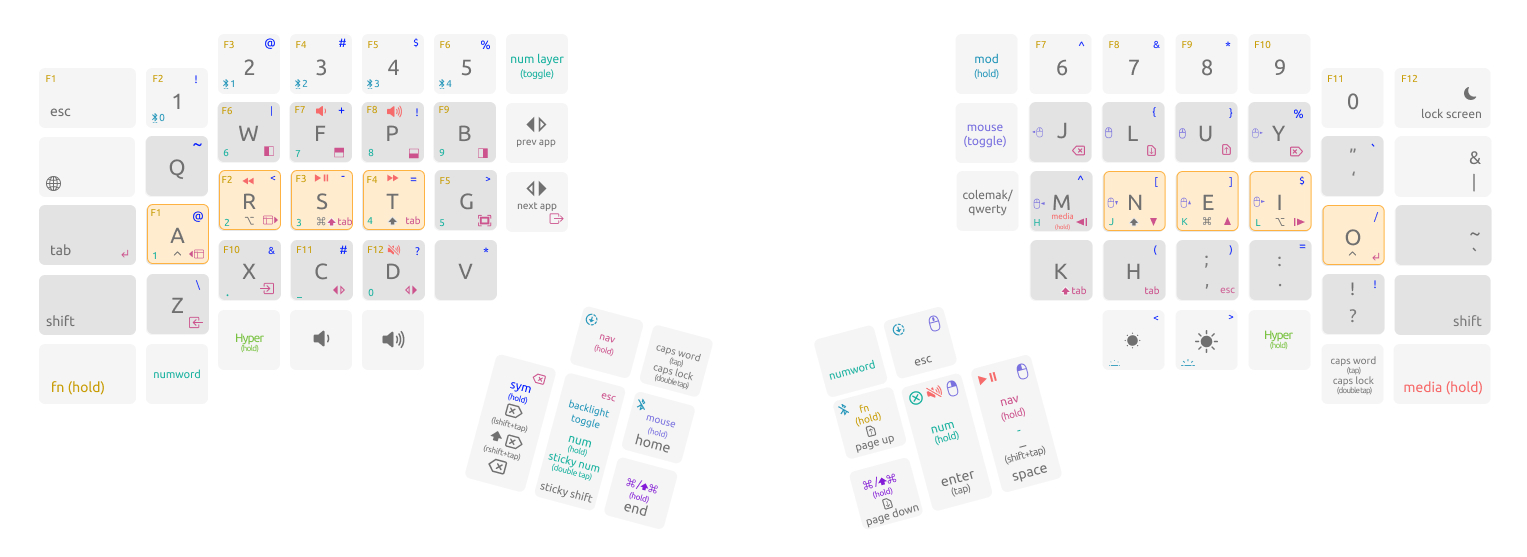
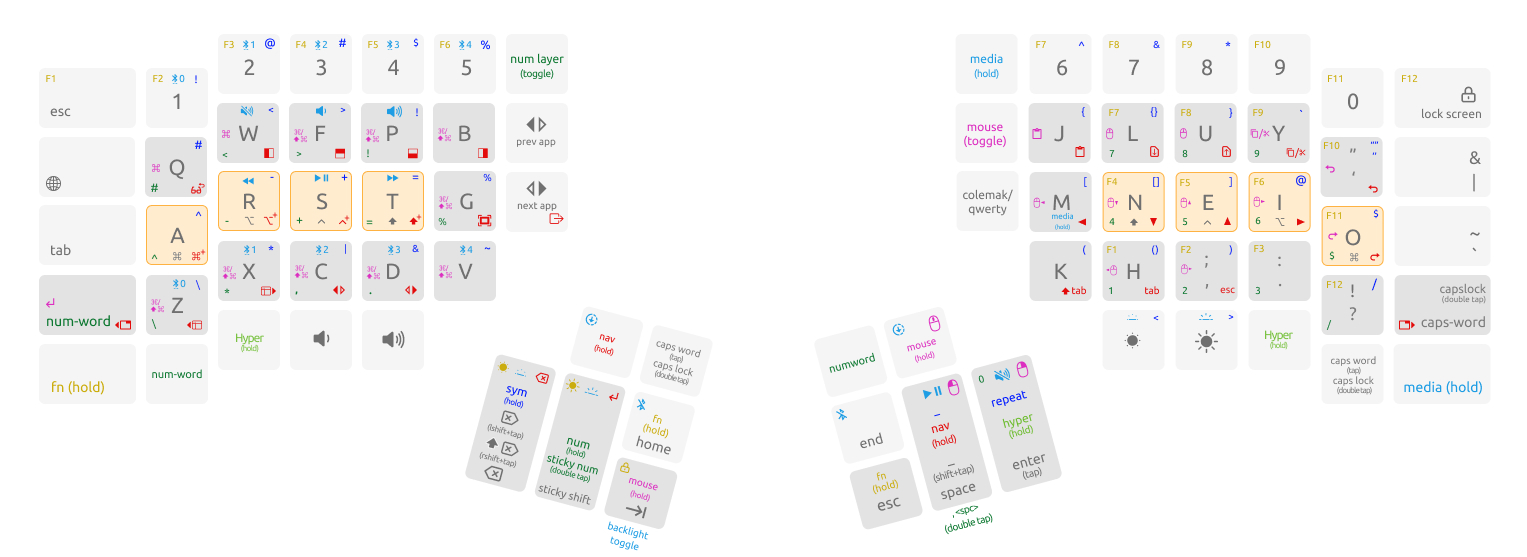
update readme, keymap image, comments

diff --git a/config/custom_behaviors.h b/config/custom_behaviors.h
@@ -115,9 +115,10 @@ ZMK_BEHAVIOR(caps_dance, tap_dance,
 ZMK_BEHAVIOR(comma_space, macro,
     bindings = <&macro_tap &kp COMMA &kp SPACE>;
 )
+// tap: space | double-tap: comma + space | shift + tap: underscore
 ZMK_BEHAVIOR(comma_dance, tap_dance,
     tapping-term-ms = <200>;
-    bindings = <&kp SPACE>, <&comma_space>;
+    bindings = <&spund>, <&comma_space>;
 )
 
 
@@ -131,14 +132,14 @@ ZMK_BEHAVIOR(comma_dance, tap_dance,
 // As per PR 1938
 
 // Spectacle controls
-#define SPC_UP    &kp LA(LG(UP))
-#define SPC_DOWN  &kp LA(LG(DOWN))
-#define SPC_LEFT  &kp LA(LG(LEFT))
-#define SPC_RIGHT &kp LA(LG(RIGHT))
-#define SPC_FULL  &kp LA(LG(F))
-#define SPC_MVR   &kp LC(LA(LG(RIGHT)))
-#define SPC_MVL   &kp LC(LA(LG(LEFT)))
-#define SPC_UNDO  &kp LC(LA(LG(Z)))
+#define SPC_UP    &kp LA(LG(UP))         // Cycle through upper positions
+#define SPC_DOWN  &kp LA(LG(DOWN))       // Cycle through lower positions
+#define SPC_LEFT  &kp LA(LG(LEFT))       // Cycle through left positions
+#define SPC_RIGHT &kp LA(LG(RIGHT))      // Cycle through right positions
+#define SPC_FULL  &kp LA(LG(F))          // Fullscreen
+#define SPC_MVR   &kp LC(LA(LG(RIGHT)))  // Move right one screen
+#define SPC_MVL   &kp LC(LA(LG(LEFT)))   // Move left one screen
+#define SPC_UNDO  &kp LC(LA(LG(Z)))      // Undo last spectacle action
 
 // Mouse Layer command shortcuts
 // All keys become tap: command + (key) and long tap: shift + command + (key)
@@ -162,16 +163,18 @@ ZMK_BEHAVIOR(comma_dance, tap_dance,
 #define CMD_REDO    &kp LS(LG(Z))
 #define PREV_WINDOW &kp LS(LG(GRAVE))
 #define NEXT_WINDOW &kp LG(GRAVE)
-#define NEXT_TAB    &mtabnext
-#define PREV_TAB    &mtabprev
+#define NEXT_TAB    &mtabnext          // next tab in vim or browser(with vimium)
+#define PREV_TAB    &mtabprev          // previous tab in vim or browser(with vimium)
 #define DSK_PREV    &kp LC(LEFT)       // previous desktop
 #define DSK_NEXT    &kp LC(RIGHT)      // next     desktop
 #define SWAPPER     &swapper
 #define SWAP_PREV   &kp LS(TAB)
-#define SPC_NAV     &lt_spc NAV 0
-#define RET_HYP     &mt RHYP ENTER
-#define BSPC_SYM    &lt_del SYM 0
-#define SHFT_NUM    &shift_num NUM 0
+
+// Thumb keys
+#define SPC_NAV     &lt_spc NAV 0      // tap: space | shift + tap: underscore | hold: NAV layer
+#define RET_HYP     &mt RHYP ENTER     // tap: enter | hold: HYPER key
+#define BSPC_SYM    &lt_del SYM 0      // tap: backspace | lshft + tap: delete | rshft + tap: shift-delete | hold: SYM layer
+#define SHFT_NUM    &shift_num NUM 0   // tap: sticky shift | double-tap: sticky num layer | hold: NUM layer
 
 /* #define MAKE_LONG_HOLD(NAME, HOLD) \ */
 /*     ZMK_BEHAVIOR(NAME, hold_tap, \ */

diff --git a/readme.md b/readme.md
@@ -3,40 +3,39 @@
 
 This is a custom config built off off [urob's demo config](https://github.com/urob/adv360-demo-config) with many features borrowed from his [zmk-config](https://github.com/urob/zmk-config) as well
 
-The keymap contains 10 layers:
+The keymap contains 8 layers:
 - Colemak base layer
   - includes brightness and volume controls, caps word/lock, num word, and hyper keys in the bottom row
 - Qwerty layer
 - Number layer
-  - accessible via left and right thumb keys or num-word toggles
-  - places numbers in a two row format on the left hand
-  - places hjkl on the right hand home row for ease of use in vim
-- Symbols layer
+  - accessible via left thumb key or num-word toggles
+  - places a num pad on the right hand with 0 on the right thumb
+  - right hand pinky is a command/$ hold/tap
+  - left hand includes most symbols that are often combined with numbers
+    - nearly the same as the sym layer left hand, but adds `,` and `.` in place of `|` and `&`
+  - double tapping space on the num layer outputs comma + space
+- Symbol layer
   - accessible via left thumb key
-  - places brackets and vim-navigation related symbols on the right hand
-    - caret and dollar mapped over left and right nav locations
-    - slash on the pinky for search
-  - places comparison and arithmetic operators on the left
-    - GT & LT are on R and G, mirroring nav directions on the right hand
-    - dash and equals, the two most often used symbols, are on two strongest fingers in the home row
-    - @ on the pinky for vim macros
+  - places brackets, macro and vim-relevant symbols on the right hand
+  - left and right pinkies are `^` and `$` for vim line navigation
+  - left hand symbols are optimized for combinations with `=`
 - Function layer
   - accessible via right thumb cluster
-  - places function keys on the left hand in the same layout as the num layer, plus across the top
-- Mod layer
-  - for switching bluetooth profiles, bootloader access, and keyboard brigtness controls
+  - places function keys on the right hand in the same layout as the num layer, plus across the top
+  - alternative access to brightness controls and screen lock on left thumb cluster
+- Mod/Media layer
+  - accessible through a hold on M or dedicated layer hold keys
+  - places media controls on left home row and right thumb cluster
+  - includes controls for switching bluetooth profiles, bootloader access, and adjusting keyboard brightness
 - Mouse layer
   - accessible via left thumb cluster
-  - places mouse movement and scroll controls on the right hand
+  - places mouse movement and scroll controls on the right hand slong withc clipboard controls
+  - includes home row mod keys and hold/taps for command shortcuts on the left hand for easy one handed command usage
 - Navigation layer
   - accessible via right thumb key
   - places arrows and tab controls on the right hand, spectacle controls, and app/window switchers on the left
-- Media layer
-  - accessible through a hold on M
-  - places media controls on the left hand
-- Command layer
-  - accessible via both thumb clusters
-  - turns every key into a command+click on tap, shift+command+click on hold
+  - previous and next tab on the outer pinky keys
+  - also includes same clipboard controls as mouse layer
 
 
 <img src="https://github.com/cosmicbuffalo/adv360-zmk-config/blob/main/keymap.jpg?raw=true">
